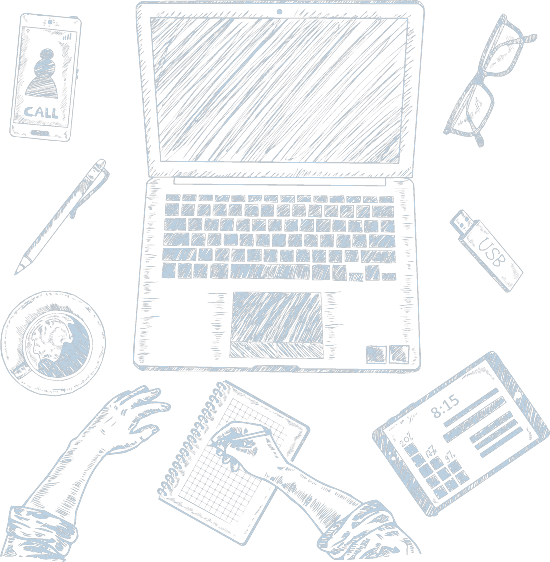
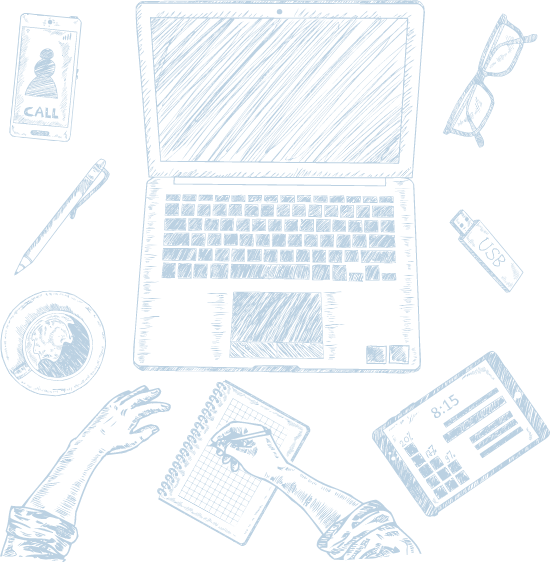
darkmode intro image update and few other indentation fixes

diff --git a/src/components/layout.js b/src/components/layout.js
@@ -3,7 +3,7 @@ import ToggleButton from "./toggleButton";
 import { Link } from "gatsby";
 
 const Layout = (props) => {
-  const stringifiedStoredDarkMode = typeof window !== 'undefined' ? localStorage.getItem("darkMode"):null;
+  const stringifiedStoredDarkMode = typeof(window) !== 'undefined' ? localStorage.getItem("darkMode"):null;
   let booleanStoredDarkMode = false;
   if (stringifiedStoredDarkMode === "true") {
     booleanStoredDarkMode = true;
